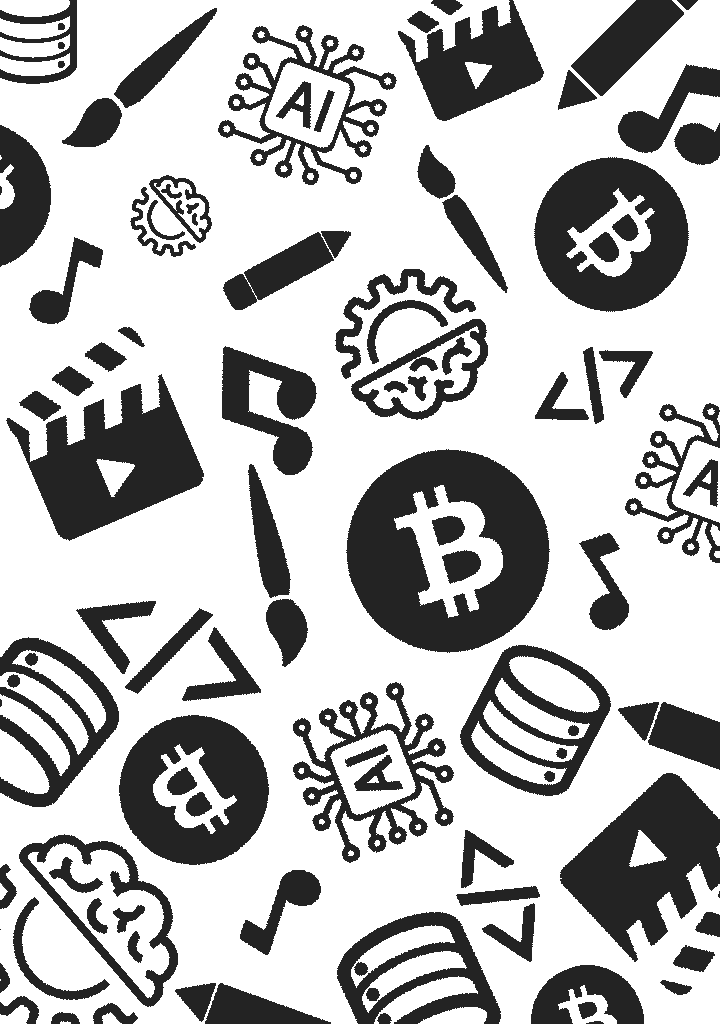
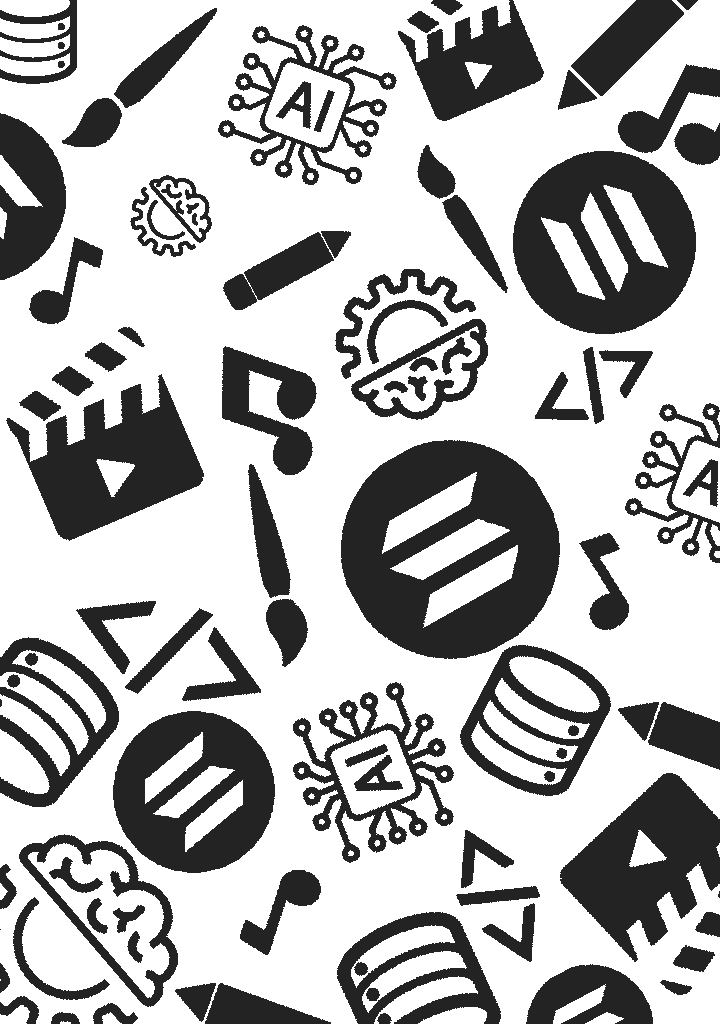
Adding file changes

diff --git a/src/constants/index.ts b/src/constants/index.ts
@@ -51,159 +51,53 @@ export const bottombarLinks = [
 
 export const roadMapItems = [
 	{
-		title: 'React.js Developer',
-		company_name: 'Starbucks',
-		icon: 'starbucks',
-		iconBg: '#383E56',
-		date: 'March 2020 - April 2021',
+		title: 'Solana Hackaton',
+		company_name: 'Colosseum',
+		icon: '',
+		iconBg: '#2FF924',
+		date: 'April 2024',
 		points: [
-			'Developing and maintaining web applications using React.js and other related technologies.',
-			'Collaborating with cross-functional teams including designers, product managers, and other developers to create high-quality products.',
-			'Implementing responsive design and ensuring cross-browser compatibility.',
-			'Participating in code reviews and providing constructive feedback to other developers.',
+			'We\'re doing our best to impress the judges at the Solana hackathon.',
+			'Functionalities for offers and payments have been introduced, enabling individuals to market their skills and promote the use of cryptocurrency transactions.',
+			'Crafting a straightforward and minimalist design to ensure intuitive navigation for new users.',
 		],
 	},
 	{
-		title: 'React Native Developer',
-		company_name: 'Tesla',
+		title: 'Bounty board',
+		company_name: 'Next 2 weeks',
+		icon: '',
+		iconBg: '#BFFF00',
+		date: 'April 2024',
+		points: [
+			'bounty board allows you to easily find the required specialists.',
+			'It also enables leveraging the capabilities of cryptocurrencies and smart contracts.',
+			'We firmly believe that this initiative will enable us to foster communities and promote such transactions.',
+		],
+	},
+	{
+		title: 'Smart Contracts and Chain development',
+		company_name: 'Brief Future',
 		icon: 'tesla',
-		iconBg: '#E6DEDD',
-		date: 'Jan 2021 - Feb 2022',
+		iconBg: '#027777',
+		date: 'June 2024',
 		points: [
-			'Developing and maintaining web applications using React.js and other related technologies.',
-			'Collaborating with cross-functional teams including designers, product managers, and other developers to create high-quality products.',
-			'Implementing responsive design and ensuring cross-browser compatibility.',
-			'Participating in code reviews and providing constructive feedback to other developers.',
+			'We acknowledge the opportunities presented by cryptocurrency.',
+			'Regrettably, due to time constraints, it was not feasible to fully implement all planned functionalities.',
+			'We intend to integrate smart contracts into all payment processes.',
 		],
 	},
 	{
-		title: 'Web Developer',
-		company_name: 'Shopify',
-		icon: 'shopify',
-		iconBg: '#383E56',
-		date: 'Jan 2022 - Jan 2023',
-		points: [
-			'Developing and maintaining web applications using React.js and other related technologies.',
-			'Collaborating with cross-functional teams including designers, product managers, and other developers to create high-quality products.',
-			'Implementing responsive design and ensuring cross-browser compatibility.',
-			'Participating in code reviews and providing constructive feedback to other developers.',
-		],
-	},
-	{
-		title: 'Full stack Developer',
-		company_name: 'Meta',
+		title: 'Future ideas',
+		company_name: 'We are open for suggestions',
 		icon: 'meta',
-		iconBg: '#E6DEDD',
-		date: 'Jan 2023 - Present',
-		points: [
-			'Developing and maintaining web applications using React.js and other related technologies.',
-			'Collaborating with cross-functional teams including designers, product managers, and other developers to create high-quality products.',
-			'Implementing responsive design and ensuring cross-browser compatibility.',
-			'Participating in code reviews and providing constructive feedback to other developers.',
-		],
-	},
-	{
-		title: 'React.js Developer',
-		company_name: 'Starbucks',
-		icon: 'starbucks',
 		iconBg: '#383E56',
-		date: 'March 2020 - April 2021',
+		date: 'June 2024 - Future',
 		points: [
-			'Developing and maintaining web applications using React.js and other related technologies.',
-			'Collaborating with cross-functional teams including designers, product managers, and other developers to create high-quality products.',
-			'Implementing responsive design and ensuring cross-browser compatibility.',
-			'Participating in code reviews and providing constructive feedback to other developers.',
+			'Obtaining financing and support in the development proces.',
+			'There are numerous additional systems we could integrate into our website.',
+			'For instance, implementing a customer assessment feature accompanied by sample photos.',
+			'We anticipate that this will become evident as the site evolves.',
 		],
 	},
-	{
-		title: 'React Native Developer',
-		company_name: 'Tesla',
-		icon: 'tesla',
-		iconBg: '#E6DEDD',
-		date: 'Jan 2021 - Feb 2022',
-		points: [
-			'Developing and maintaining web applications using React.js and other related technologies.',
-			'Collaborating with cross-functional teams including designers, product managers, and other developers to create high-quality products.',
-			'Implementing responsive design and ensuring cross-browser compatibility.',
-			'Participating in code reviews and providing constructive feedback to other developers.',
-		],
-	},
-	{
-		title: 'Web Developer',
-		company_name: 'Shopify',
-		icon: 'shopify',
-		iconBg: '#383E56',
-		date: 'Jan 2022 - Jan 2023',
-		points: [
-			'Developing and maintaining web applications using React.js and other related technologies.',
-			'Collaborating with cross-functional teams including designers, product managers, and other developers to create high-quality products.',
-			'Implementing responsive design and ensuring cross-browser compatibility.',
-			'Participating in code reviews and providing constructive feedback to other developers.',
-		],
-	},
-	{
-		title: 'Full stack Developer',
-		company_name: 'Meta',
-		icon: 'meta',
-		iconBg: '#E6DEDD',
-		date: 'Jan 2023 - Present',
-		points: [
-			'Developing and maintaining web applications using React.js and other related technologies.',
-			'Collaborating with cross-functional teams including designers, product managers, and other developers to create high-quality products.',
-			'Implementing responsive design and ensuring cross-browser compatibility.',
-			'Participating in code reviews and providing constructive feedback to other developers.',
-		],
-	},
-	{
-		title: 'React.js Developer',
-		company_name: 'Starbucks',
-		icon: 'starbucks',
-		iconBg: '#383E56',
-		date: 'March 2020 - April 2021',
-		points: [
-			'Developing and maintaining web applications using React.js and other related technologies.',
-			'Collaborating with cross-functional teams including designers, product managers, and other developers to create high-quality products.',
-			'Implementing responsive design and ensuring cross-browser compatibility.',
-			'Participating in code reviews and providing constructive feedback to other developers.',
-		],
-	},
-	{
-		title: 'React Native Developer',
-		company_name: 'Tesla',
-		icon: 'tesla',
-		iconBg: '#E6DEDD',
-		date: 'Jan 2021 - Feb 2022',
-		points: [
-			'Developing and maintaining web applications using React.js and other related technologies.',
-			'Collaborating with cross-functional teams including designers, product managers, and other developers to create high-quality products.',
-			'Implementing responsive design and ensuring cross-browser compatibility.',
-			'Participating in code reviews and providing constructive feedback to other developers.',
-		],
-	},
-	{
-		title: 'Web Developer',
-		company_name: 'Shopify',
-		icon: 'shopify',
-		iconBg: '#383E56',
-		date: 'Jan 2022 - Jan 2023',
-		points: [
-			'Developing and maintaining web applications using React.js and other related technologies.',
-			'Collaborating with cross-functional teams including designers, product managers, and other developers to create high-quality products.',
-			'Implementing responsive design and ensuring cross-browser compatibility.',
-			'Participating in code reviews and providing constructive feedback to other developers.',
-		],
-	},
-	{
-		title: 'Full stack Developer',
-		company_name: 'Meta',
-		icon: 'meta',
-		iconBg: '#E6DEDD',
-		date: 'Jan 2023 - Present',
-		points: [
-			'Developing and maintaining web applications using React.js and other related technologies.',
-			'Collaborating with cross-functional teams including designers, product managers, and other developers to create high-quality products.',
-			'Implementing responsive design and ensuring cross-browser compatibility.',
-			'Participating in code reviews and providing constructive feedback to other developers.',
-		],
-	},
+	
 ];

diff --git a/src/_root/pages/Profile.tsx b/src/_root/pages/Profile.tsx
@@ -64,8 +64,8 @@ const Profile = () => {
 
 						<div className="flex gap-8 mt-10 items-center justify-center xl:justify-start flex-wrap z-20">
 							<StatBlock value={currentUser.posts.length} label="Offers" />
-							<StatBlock value={20} label="Followers" />
-							<StatBlock value={20} label="Following" />
+							<StatBlock value={currentUser.saves.length} label="Bought offers" />
+							<StatBlock value={currentUser.liked.length} label="Liked Offers" />
 						</div>
 
 						<p className="small-medium md:base-medium text-center xl:text-left mt-7 max-w-screen-sm">
